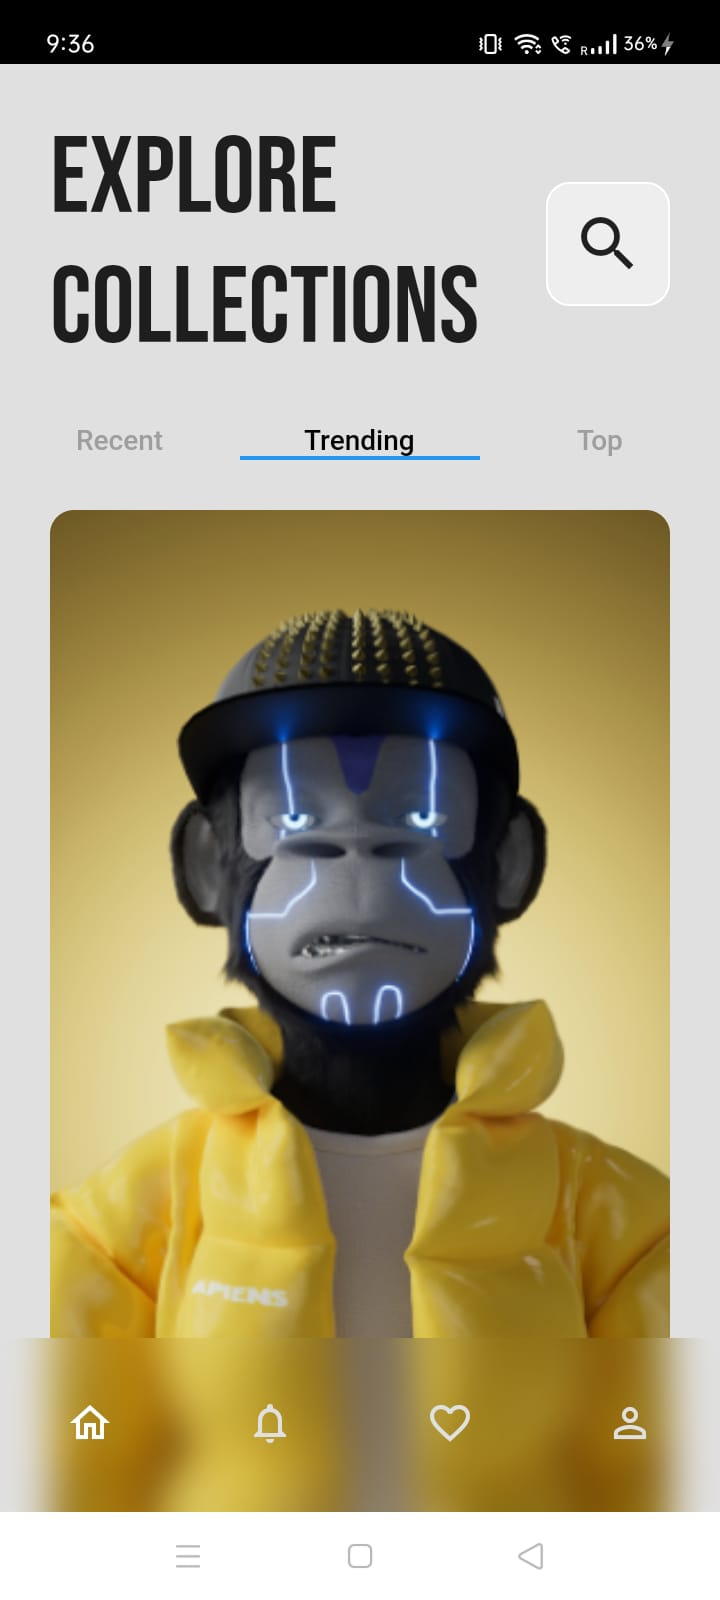
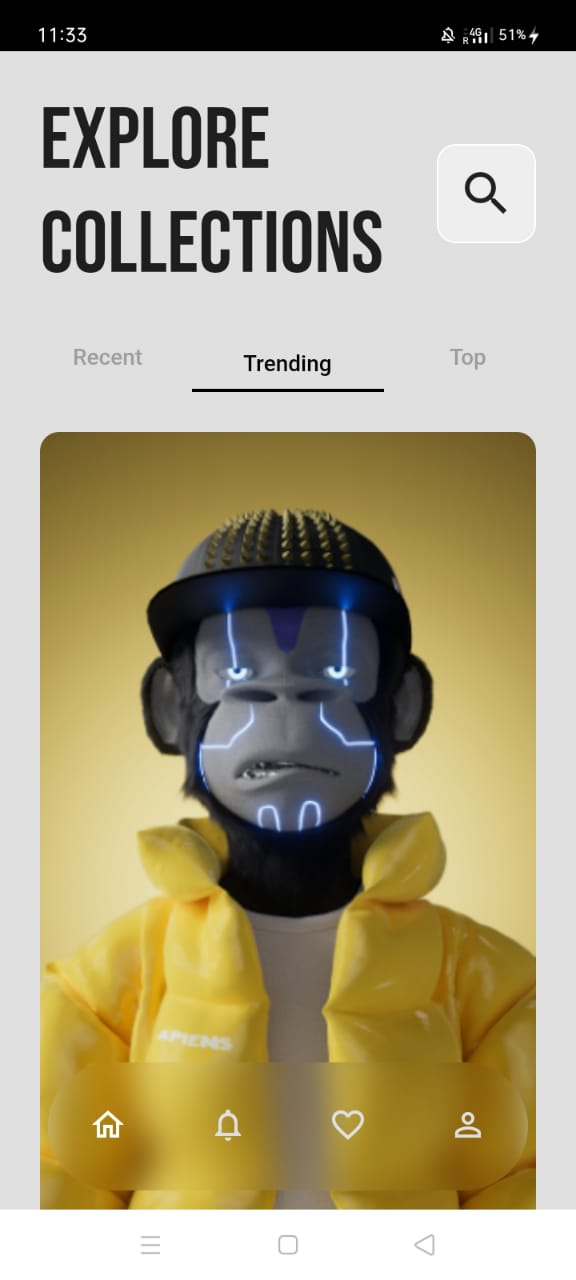
screenshots

diff --git a/lib/theme/glass_box.dart b/lib/theme/glass_box.dart
@@ -8,17 +8,21 @@ class GlassBox extends StatelessWidget {
 
   @override
   Widget build(BuildContext context) {
-    return ClipRRect(
-      borderRadius: BorderRadius.circular(12),
-      child: Container(
-        height: 87,
-        child: BackdropFilter(
-          filter: ImageFilter.blur(sigmaX: 10,sigmaY: 10),
-          child: Container(
-            alignment:Alignment.bottomCenter,
-            child: child,
+    return Padding(
+      padding: const EdgeInsets.only(left: 30, right: 30, bottom: 12),
+      child: ClipRRect(
+        borderRadius: BorderRadius.circular(110),
+        child: Container(
+          height: 80,
+         
+          child: BackdropFilter(
+            filter: ImageFilter.blur(sigmaX: 10,sigmaY: 10),
+            child: Container( 
+              alignment:Alignment.bottomCenter,
+              child: child,
+            ),
+            
           ),
-          
         ),
       ),
     );

diff --git a/lib/components/my_tabbar.dart b/lib/components/my_tabbar.dart
@@ -9,12 +9,23 @@ class MyTabBar extends StatelessWidget {
     return Column(
       children: [
         TabBar(
+          indicatorColor: Colors.black,
+        
           unselectedLabelColor: Colors.grey,
           labelColor: Colors.black,
           tabs: [
-            Text(tabOptions[0][0]),
-            Text(tabOptions[1][0]),
-            Text(tabOptions[2][0]),
+            Padding(
+              padding: const EdgeInsets.only(bottom:8.0,left: 15,),
+              child: Text(tabOptions[0][0]),
+            ),
+            Padding(
+              padding: const EdgeInsets.all(8.0),
+              child: Text(tabOptions[1][0]),
+            ),
+            Padding(
+              padding: const EdgeInsets.only(bottom: 8.0, right: 15),
+              child: Text(tabOptions[2][0]),
+            ),
           ]
           ),
            Expanded(
